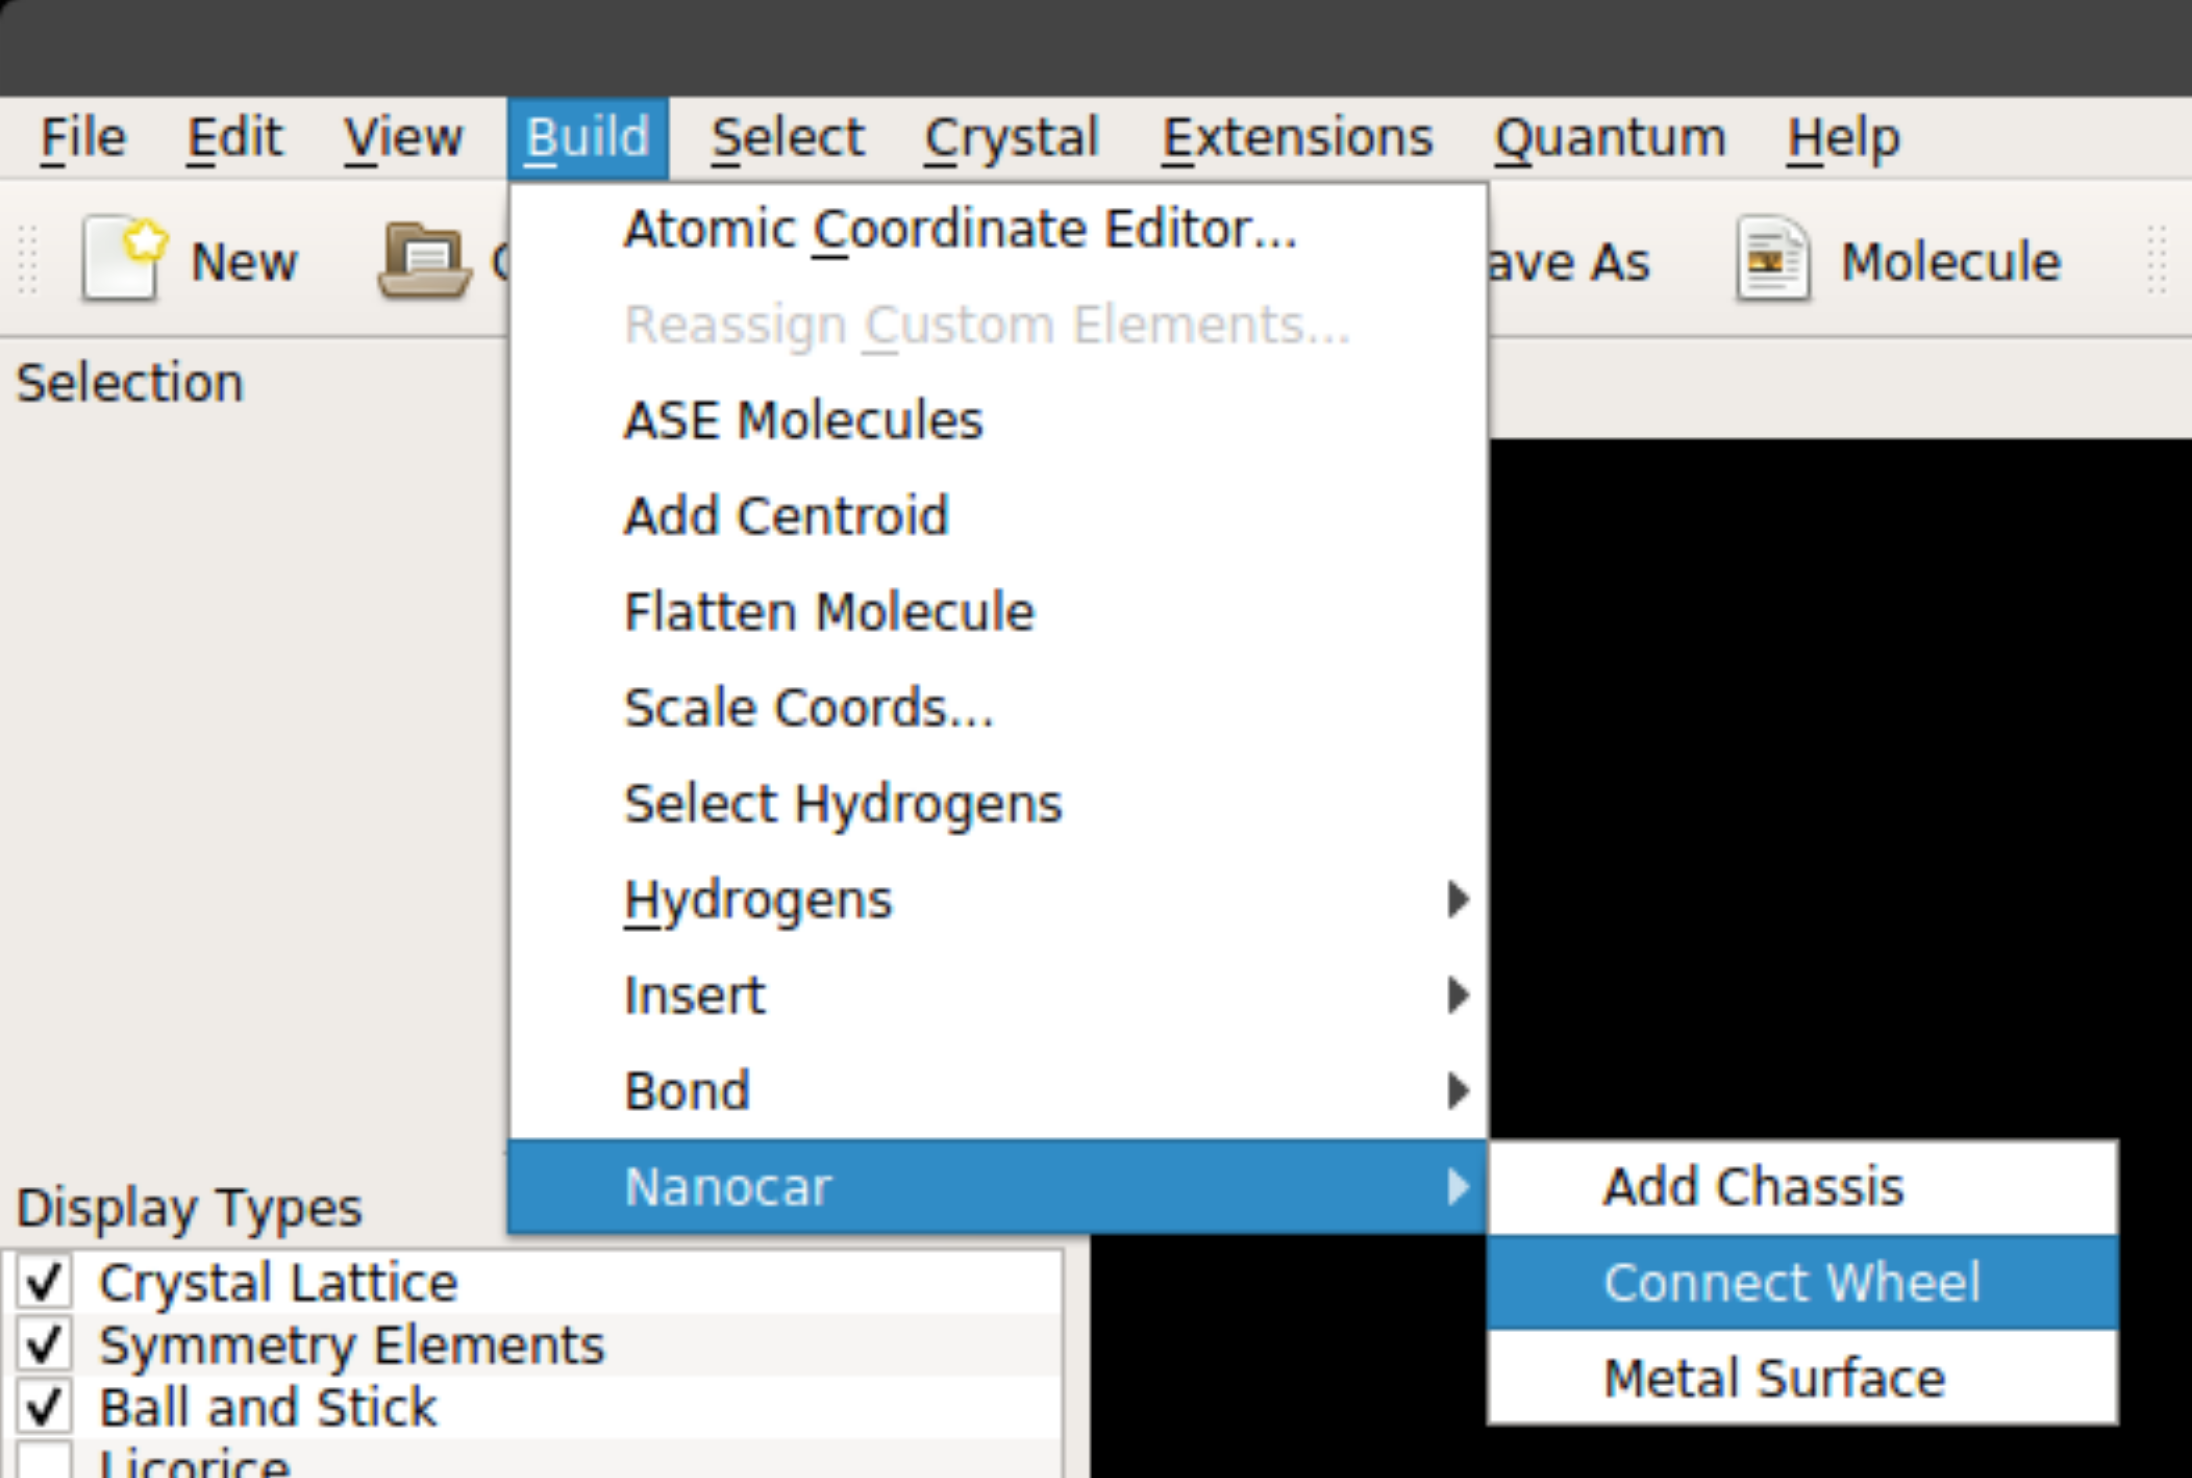
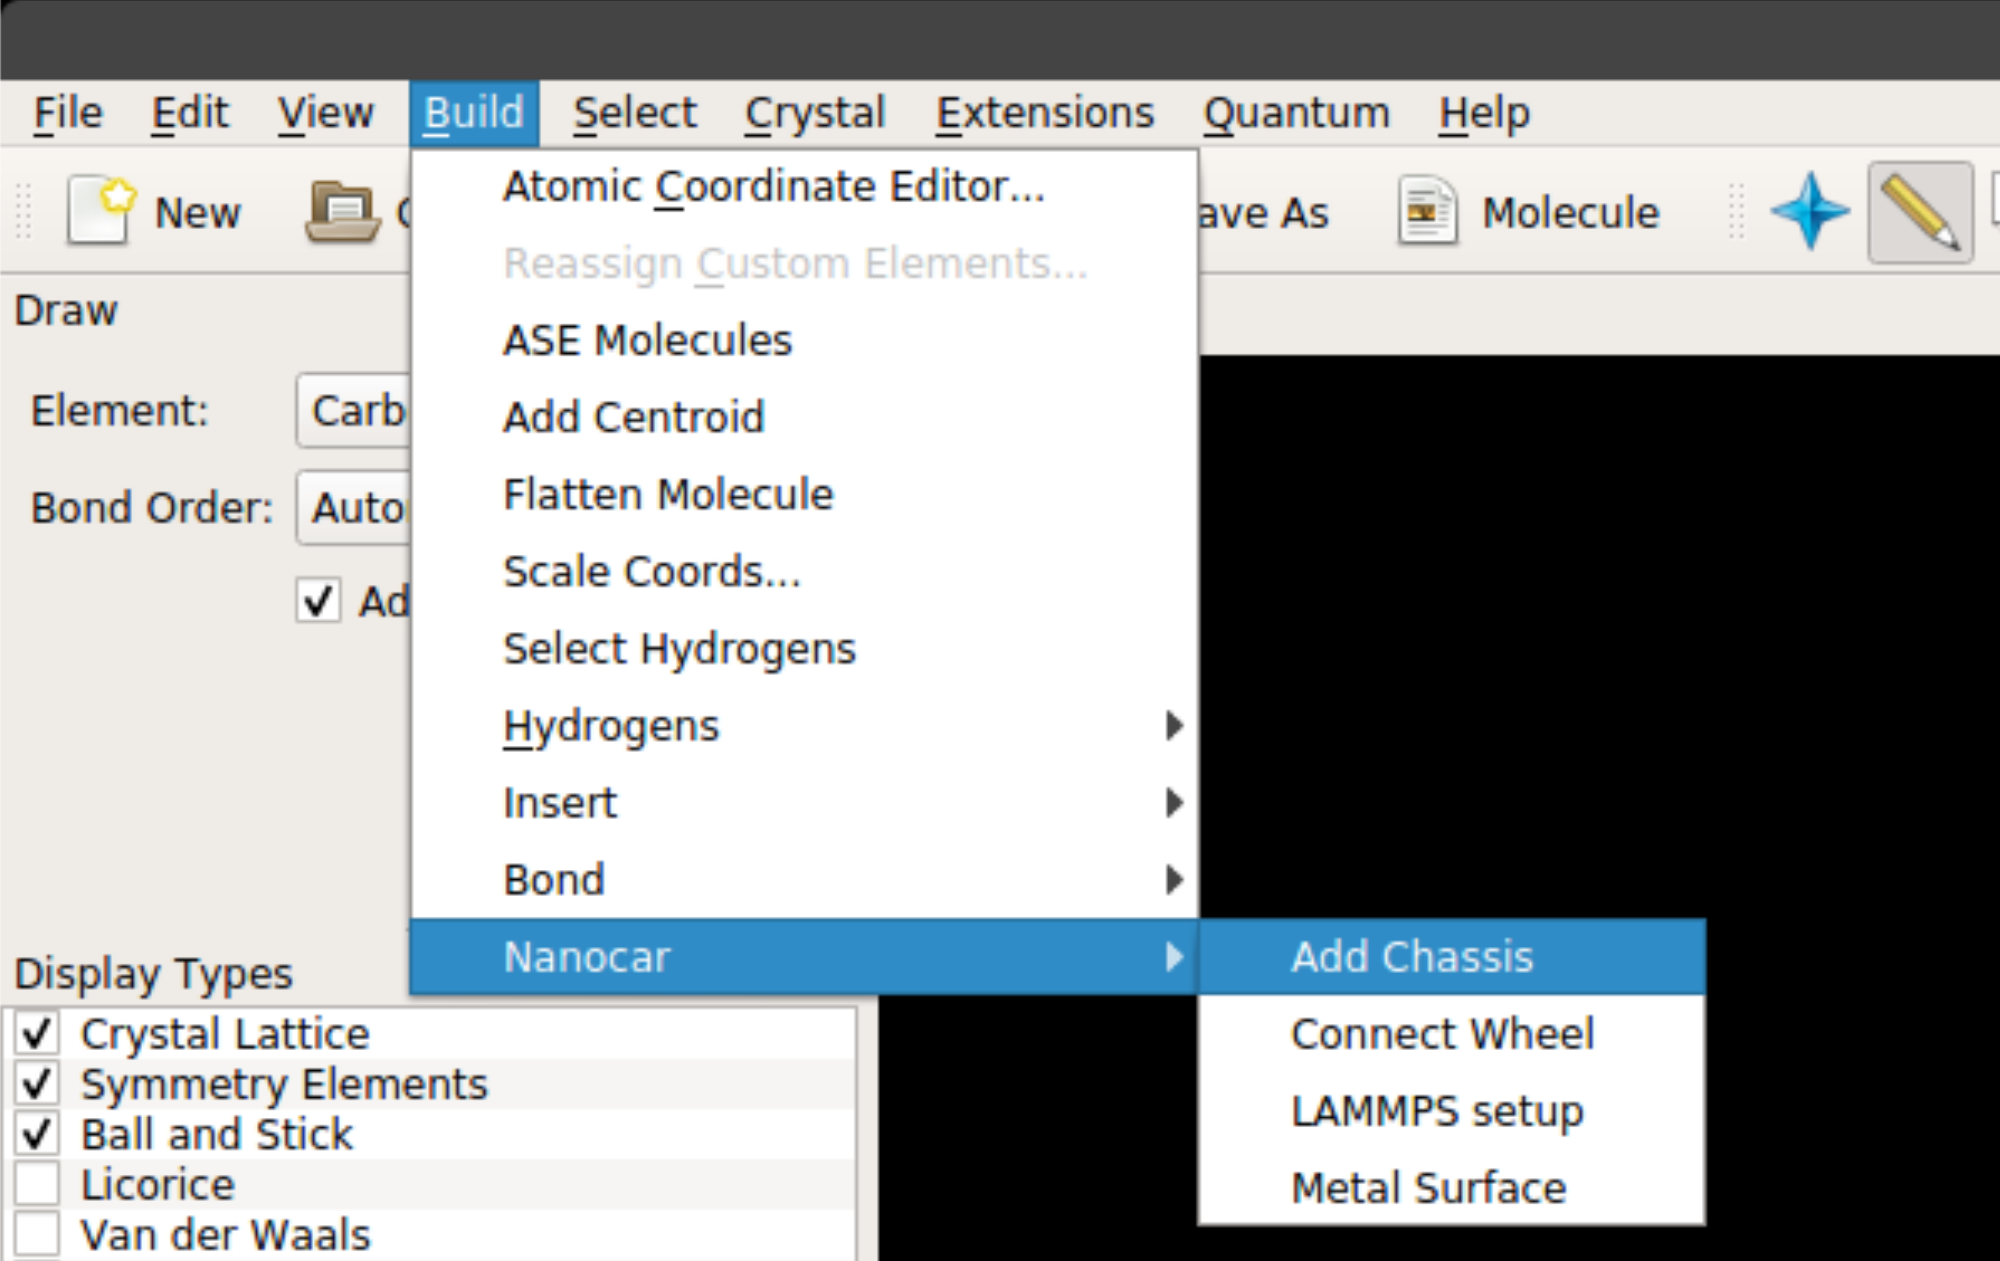
Update usage information to add LAMMPS setup usage.

diff --git a/docs/usage.md b/docs/usage.md
@@ -8,10 +8,11 @@ The nanocar builder plug-in can be accessed from the top menu under `Build -> Na
 
 <p align="center"><img src='assets/img/nanocar-window.png'></p>
 
-The plug-in has three main features:
-1. [Add Chassis Molecule](#add-chassis)
-2. [Connect Wheel Molecule](#connect-wheel)
-3. [Add Metal Surface](#metal-surface)
+**The plug-in has four main features:**
+1. **[Add Chassis Molecule](#add-chassis)**
+2. **[Connect Wheel Molecule](#connect-wheel)**
+3. **[Add Metal Surface](#metal-surface)**
+4. **[Setup LAMMPS simulation](#lammps-setup)**
 
 ## Add Chassis
 <p align="center"><img src='assets/img/add-chassis-window.png' width="350"></p>
@@ -33,7 +34,7 @@ After you add the chassis you can connect wheel molecules by selecting an atom s
 - `Bond distance`: The distance of the wheel molecule to the selected atom site
 - `Wheel`: Wheel molecule name
 
-**Note:** Currently I advise to add wheel molecules to atom sites with only one bond. The plug-in uses this bonding information to align the wheel molecule to the selected atom site. If the selected atom site has more than one connection the wheel can aligned to any of those. An easy way to make sure the wheel is aligned correctly you can delete all the bonds except the one you want and redraw them after connecting the wheel.
+> **Note:** Always add wheel molecules to atom sites with only one bond. The plug-in uses this bonding information to align the wheel molecule to the selected atom site. If the selected atom site has more than one connection, the wheel can be aligned to any of them. An easy way to make sure the wheel is aligned correctly is to delete all the bonds except for the one you want and redraw them after connecting the wheel.
 
 ## Metal Surface
 <p align="center"><img src='assets/img/metal-surface-window.png' width="400"></p>
@@ -48,3 +49,18 @@ Nanocar builder plug-in also comes with a metal slab builder. You can place your
 - `Size Z`: Size of metal surface in *z* dimension
 - `Surface`: Surface type (bcc100, bcc110, bcc111, fcc100, fcc110, fcc111, fcc211)
 - `Vacuum distance`: Distance between the nanocar and the metal surface
+
+## LAMMPS Setup
+<p align="center"><img src='assets/img/lammps-setup-window.png' width="400"></p>
+
+Nanocar builder can also write necessary files to run a rigid body MD simulation in LAMMPS.
+These include a data file that contain structure information (atomic coordinates, box size, vdw parameters) and input file which contains simulation parameters. Some of these parameters can be selected from the *LAMMPS setup* window seen above.
+
+- `Simulation Box X`: Size of the periodic simulation box in *x* dimension
+- `Simulation Box Y`: Size of the periodic simulation box in *y* dimension
+- `Simulation Box Z`: Size of the periodic simulation box in *z* dimension
+- `Save directory`: Directory to save simulation files. If not found the files will be saved in the plug-in directory.
+- `Simulation length`: Length of the simulation in nanoseconds
+- `Timestep`: Timestep in femtoseconds
+
+> **Simulation details:** By default nanocar builder groups the surface and the nanocar as two separate rigid bodies. It fixes the surface atoms and allows the nanocar to move. It also calculates the center of mass for the nanocar every 10000 timesteps and prints it in the log file. Additionaly, full atomic coordinates for the nanocar is printed as a trajectory file. The vdW parameters for atoms are assigned from Universal Force Field (UFF). A Lennard-Jones potential with 12.5 Å cut-off is used. The default vdW parameters might not be strong enough to keep the nanocar at the surface therefore you might need to increase nanocar-surface interaction energy. By default MD simulation is performed at 300 K in NVT ensemble.
